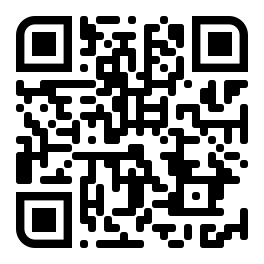
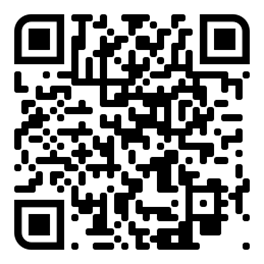
updating the url and qrcode of the ticket management system

diff --git a/index.html b/index.html
@@ -192,7 +192,7 @@
                                 <img src="assets/imagens/qrCodes/qr-code-chamados.png" alt="QRcode">
                                 <p ><sapn data-key="fraseQRcode1">Facilite! Do PC para o mobile:<br>um QR code e</sapn> 3 <sapn data-key="fraseQRcode2">cafés e pronto </sapn>&#9749;.</p>
                             </div>
-                            <a href="https://sistema-chamado-2.onrender.com" target="_blank" data-key="acessoProjeto" class="acessoProjeto">
+                            <a href="https://ticket-management-system-jiyc.onrender.com" target="_blank" data-key="acessoProjeto" class="acessoProjeto">
                                 <span class="material-symbols-outlined" >open_in_new</span>
                                 Acesse o Projeto
                             </a>
